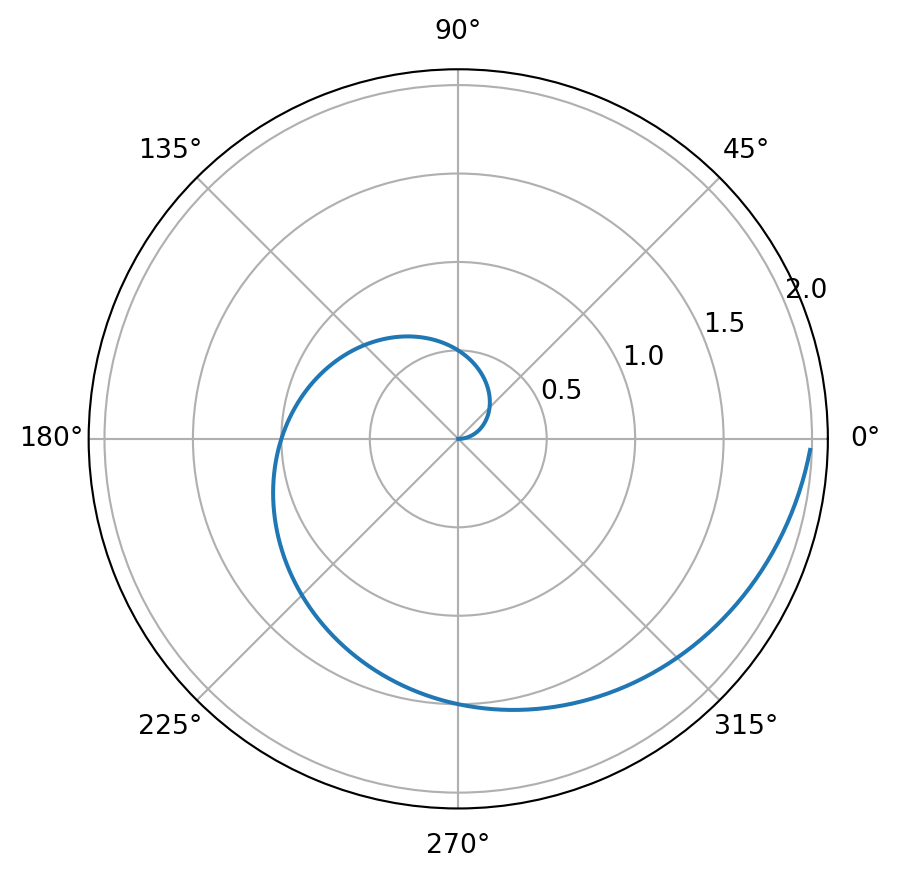
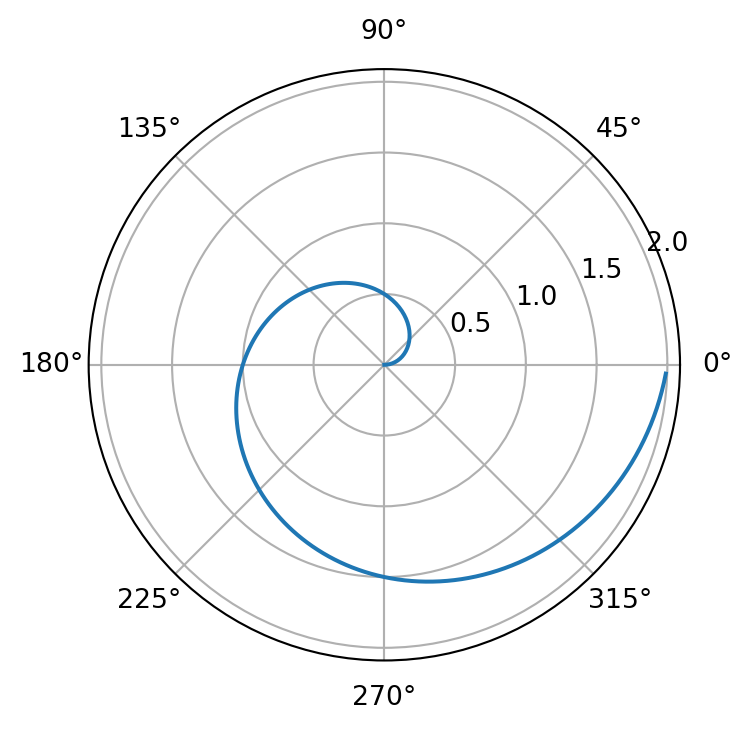
header .yml control data using key instead of using R

diff --git a/_site/research_papers/TPEL_ZGTI.html b/_site/research_papers/TPEL_ZGTI.html
@@ -222,47 +222,33 @@ pre > code.sourceCode > span > a:first-child::before { text-decoration: underlin
 <div class="cell" data-execution_count="1">
 <details>
 <summary>Code</summary>
-<div class="sourceCode cell-code" id="cb1"><pre class="sourceCode python code-with-copy"><code class="sourceCode python"><span id="cb1-1"><a href="#cb1-1" aria-hidden="true" tabindex="-1"></a><span class="im">import</span> numpy <span class="im">as</span> np</span>
-<span id="cb1-2"><a href="#cb1-2" aria-hidden="true" tabindex="-1"></a><span class="im">import</span> matplotlib.pyplot <span class="im">as</span> plt</span>
-<span id="cb1-3"><a href="#cb1-3" aria-hidden="true" tabindex="-1"></a></span>
-<span id="cb1-4"><a href="#cb1-4" aria-hidden="true" tabindex="-1"></a>r <span class="op">=</span> np.arange(<span class="dv">0</span>, <span class="dv">2</span>, <span class="fl">0.01</span>)</span>
-<span id="cb1-5"><a href="#cb1-5" aria-hidden="true" tabindex="-1"></a>theta <span class="op">=</span> <span class="dv">1</span> <span class="op">*</span> np.pi <span class="op">*</span> r</span>
-<span id="cb1-6"><a href="#cb1-6" aria-hidden="true" tabindex="-1"></a>fig, ax <span class="op">=</span> plt.subplots(</span>
-<span id="cb1-7"><a href="#cb1-7" aria-hidden="true" tabindex="-1"></a>  subplot_kw <span class="op">=</span> {<span class="st">'projection'</span>: <span class="st">'polar'</span>} </span>
-<span id="cb1-8"><a href="#cb1-8" aria-hidden="true" tabindex="-1"></a>)</span>
-<span id="cb1-9"><a href="#cb1-9" aria-hidden="true" tabindex="-1"></a>ax.plot(theta, r)</span>
-<span id="cb1-10"><a href="#cb1-10" aria-hidden="true" tabindex="-1"></a>ax.set_rticks([<span class="fl">0.5</span>, <span class="dv">1</span>, <span class="fl">1.5</span>, <span class="dv">2</span>])</span>
-<span id="cb1-11"><a href="#cb1-11" aria-hidden="true" tabindex="-1"></a>ax.grid(<span class="va">True</span>)</span>
-<span id="cb1-12"><a href="#cb1-12" aria-hidden="true" tabindex="-1"></a>plt.show()</span></code><button title="Copy to Clipboard" class="code-copy-button"><i class="bi"></i></button></pre></div>
+<div class="sourceCode cell-code" id="cb1"><pre class="sourceCode numberSource python number-lines code-with-copy"><code class="sourceCode python"><span id="cb1-1"><a href="#cb1-1"></a><span class="im">import</span> numpy <span class="im">as</span> np</span>
+<span id="cb1-2"><a href="#cb1-2"></a><span class="im">import</span> matplotlib.pyplot <span class="im">as</span> plt</span>
+<span id="cb1-3"><a href="#cb1-3"></a></span>
+<span id="cb1-4"><a href="#cb1-4"></a>r <span class="op">=</span> np.arange(<span class="dv">0</span>, <span class="dv">2</span>, <span class="fl">0.01</span>)</span>
+<span id="cb1-5"><a href="#cb1-5"></a>theta <span class="op">=</span> <span class="dv">1</span> <span class="op">*</span> np.pi <span class="op">*</span> r</span>
+<span id="cb1-6"><a href="#cb1-6"></a>fig, ax <span class="op">=</span> plt.subplots(</span>
+<span id="cb1-7"><a href="#cb1-7"></a>  subplot_kw <span class="op">=</span> {<span class="st">'projection'</span>: <span class="st">'polar'</span>} </span>
+<span id="cb1-8"><a href="#cb1-8"></a>)</span>
+<span id="cb1-9"><a href="#cb1-9"></a>ax.plot(theta, r)</span>
+<span id="cb1-10"><a href="#cb1-10"></a>ax.set_rticks([<span class="fl">0.5</span>, <span class="dv">1</span>, <span class="fl">1.5</span>, <span class="dv">2</span>])</span>
+<span id="cb1-11"><a href="#cb1-11"></a>ax.grid(<span class="va">True</span>)</span>
+<span id="cb1-12"><a href="#cb1-12"></a>plt.show()</span></code><button title="Copy to Clipboard" class="code-copy-button"><i class="bi"></i></button></pre></div>
 </details>
 <div class="cell-output cell-output-display">
 <div id="fig-1" class="quarto-figure quarto-figure-center anchored">
 <figure class="figure">
-<p><img src="TPEL_ZGTI_files/figure-html/fig-1-output-1.png" width="450" height="439" class="figure-img"></p>
+<p><img src="TPEL_ZGTI_files/figure-html/fig-1-output-1.png" width="376" height="365" class="figure-img"></p>
 <figcaption class="figure-caption">Figure&nbsp;1: A line plot on a polar axis</figcaption>
 </figure>
 </div>
 </div>
 </div>
 <div class="cell" data-execution_count="2">
-<details>
-<summary>Code</summary>
-<div class="sourceCode cell-code" id="cb2"><pre class="sourceCode python code-with-copy"><code class="sourceCode python"><span id="cb2-1"><a href="#cb2-1" aria-hidden="true" tabindex="-1"></a><span class="im">import</span> numpy <span class="im">as</span> np</span>
-<span id="cb2-2"><a href="#cb2-2" aria-hidden="true" tabindex="-1"></a><span class="im">import</span> matplotlib.pyplot <span class="im">as</span> plt</span>
-<span id="cb2-3"><a href="#cb2-3" aria-hidden="true" tabindex="-1"></a></span>
-<span id="cb2-4"><a href="#cb2-4" aria-hidden="true" tabindex="-1"></a>theta <span class="op">=</span> <span class="dv">5</span> <span class="op">*</span> np.pi <span class="op">*</span> r</span>
-<span id="cb2-5"><a href="#cb2-5" aria-hidden="true" tabindex="-1"></a>fig, ax <span class="op">=</span> plt.subplots(</span>
-<span id="cb2-6"><a href="#cb2-6" aria-hidden="true" tabindex="-1"></a>  subplot_kw <span class="op">=</span> {<span class="st">'projection'</span>: <span class="st">'polar'</span>} </span>
-<span id="cb2-7"><a href="#cb2-7" aria-hidden="true" tabindex="-1"></a>)</span>
-<span id="cb2-8"><a href="#cb2-8" aria-hidden="true" tabindex="-1"></a>ax.plot(theta, r)</span>
-<span id="cb2-9"><a href="#cb2-9" aria-hidden="true" tabindex="-1"></a>ax.set_rticks([<span class="fl">0.5</span>, <span class="dv">1</span>, <span class="fl">1.5</span>, <span class="dv">2</span>])</span>
-<span id="cb2-10"><a href="#cb2-10" aria-hidden="true" tabindex="-1"></a>ax.grid(<span class="va">True</span>)</span>
-<span id="cb2-11"><a href="#cb2-11" aria-hidden="true" tabindex="-1"></a>plt.show()</span></code><button title="Copy to Clipboard" class="code-copy-button"><i class="bi"></i></button></pre></div>
-</details>
 <div class="cell-output cell-output-display">
-<div id="fig-2" class="quarto-figure quarto-figure-center anchored">
+<div id="fig-2" class="quarto-figure quarto-figure-left anchored">
 <figure class="figure">
-<p><img src="TPEL_ZGTI_files/figure-html/fig-2-output-1.png" width="450" height="439" class="figure-img"></p>
+<p><img src="TPEL_ZGTI_files/figure-html/fig-2-output-1.png" width="376" height="365" class="figure-img"></p>
 <figcaption class="figure-caption">Figure&nbsp;2: Another line plot on a polar axis</figcaption>
 </figure>
 </div>

diff --git a/_site/research.html b/_site/research.html
@@ -193,7 +193,7 @@ ul.task-list li input[type="checkbox"] {
     <div>
     <div class="quarto-title-meta-heading">Published</div>
     <div class="quarto-title-meta-contents">
-      <p class="date">April 23, 2023</p>
+      <p class="date">2023-04-23</p>
     </div>
   </div>
   
@@ -212,7 +212,7 @@ ul.task-list li input[type="checkbox"] {
 
 <div class="quarto-listing quarto-listing-container-default" id="listing-listing">
 <div class="list quarto-listing-default">
-<div class="quarto-post image-right" data-index="0" data-listing-date-sort="1422594000000" data-listing-file-modified-sort="1682259994839" data-listing-date-modified-sort="NaN" data-listing-reading-time-sort="1">
+<div class="quarto-post image-right" data-index="0" data-listing-date-sort="1422594000000" data-listing-file-modified-sort="1682262529011" data-listing-date-modified-sort="NaN" data-listing-reading-time-sort="1">
 <div class="thumbnail">
 <p><a href="./research_papers/TPEL_ZGTI.html"> <p class="card-img-top"><img src="research_papers\TPEL_ZGTI_files\figure-html\fig-1-output-1.png"  class="thumbnail-image card-img"/></p> </a></p>
 </div>
@@ -232,7 +232,7 @@ Analysis of D-Q Small-Signal Impedance of Grid-Tied Inverters
 <div class="metadata">
 <a href="./research_papers/TPEL_ZGTI.html">
 <div class="listing-date">
-Jan 30, 2015
+2015-01-30
 </div>
 <div class="listing-author">
 Bo Wen
